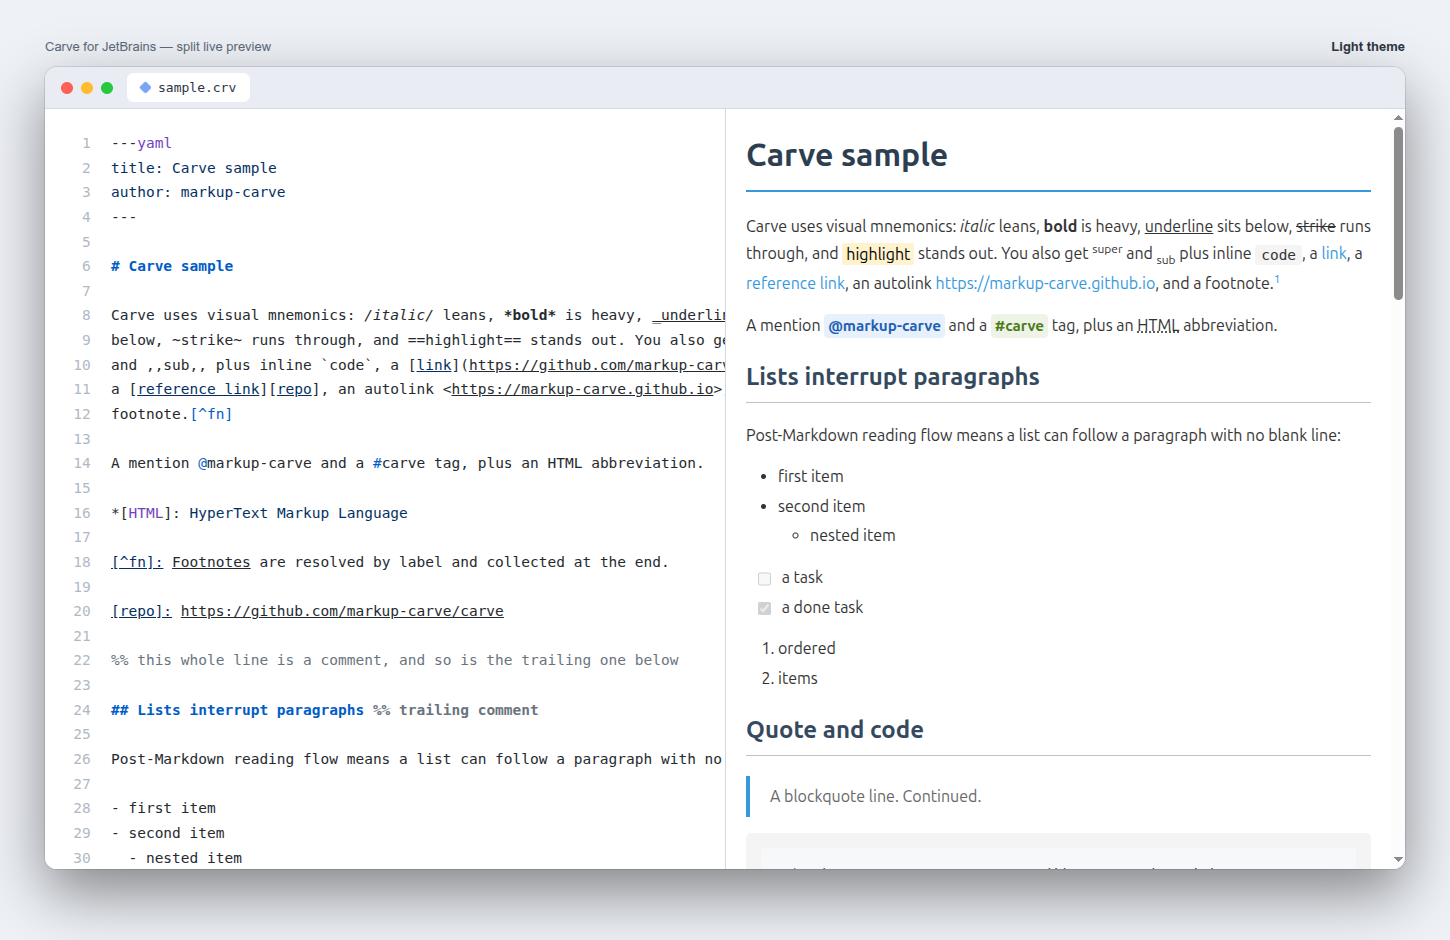
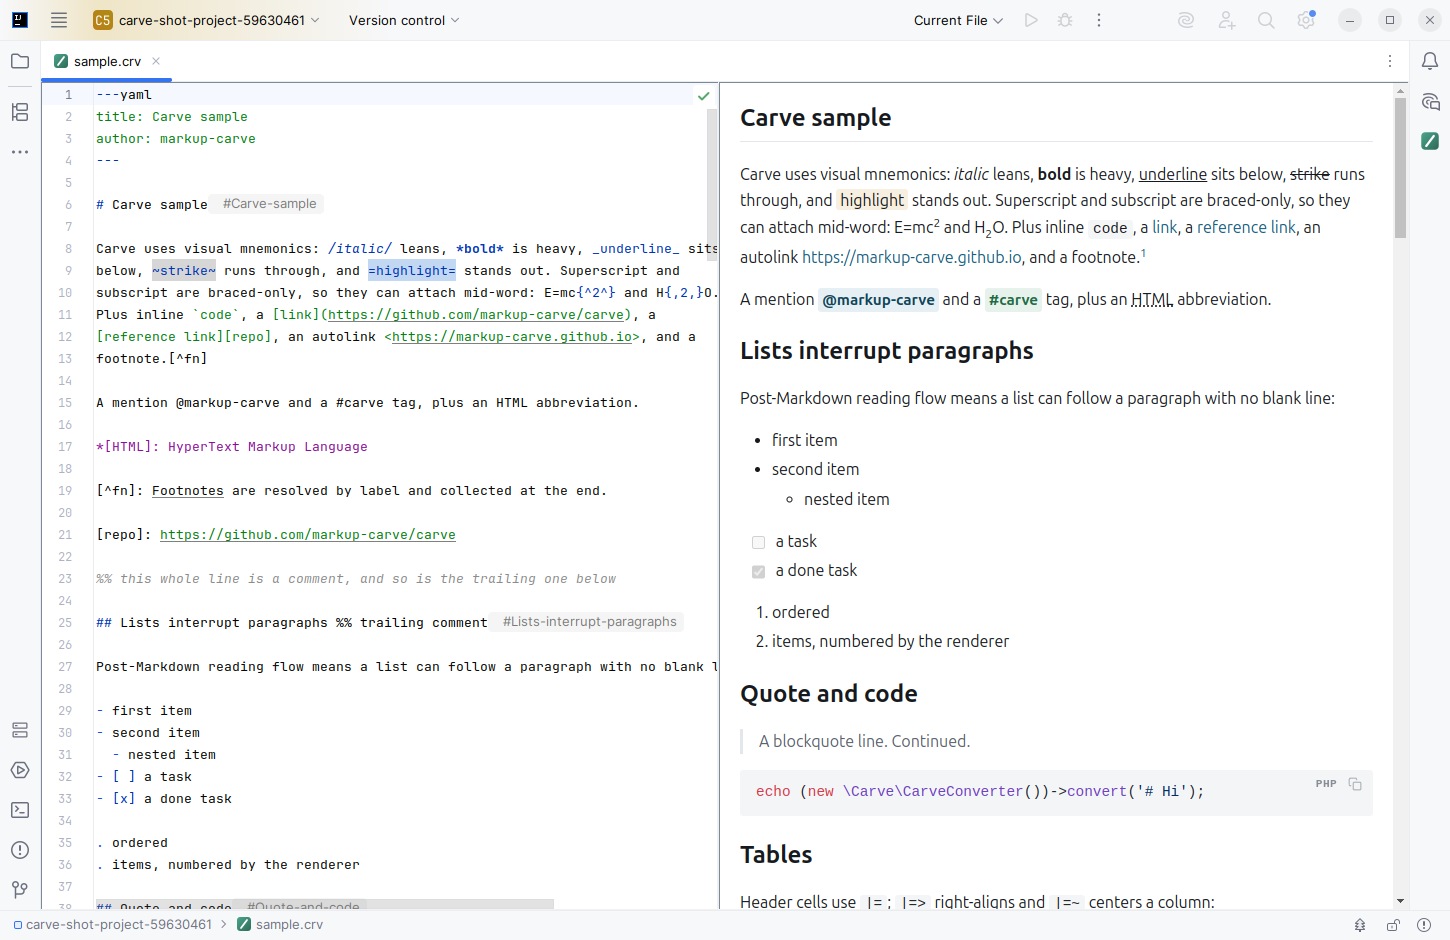
docs: the split screenshots show the 0.1.6 preview (#114)
live-preview.png and theme-dark.png still showed the pre-0.1.6 preview: blue
heading and quote rules, boxed code blocks, no copy button. Both are retaken
from a running sandbox IDE at 1450x940, grabbed 1:1 so nothing is scaled, and
both sit at the same position in examples/sample.crv so the pair differs only
by IDE theme.

The framing now reaches the fenced code block, so the language badge and the
copy button are visible, and the source pane shows the bare-dot ordered list
the sample switched to. The inspection widget reads clean, which it now is.

highlighting.png is unchanged.

The screenshots README drops the stale note and describes how the two split
shots are actually produced, since a preview-only page cannot stand in for
them: it has neither the source pane nor the IDE chrome.

Changed region(s): [[0.0, 0.0, 0.9931, 0.9872], [0.4966, 0.4628, 0.9, 0.8021], [0.4966, 0.833, 0.8069, 0.8638]]

diff --git a/docs/screenshots/README.md b/docs/screenshots/README.md
@@ -9,22 +9,22 @@ JetBrains Marketplace listing.
 | `theme-dark.png` | Same split in dark theme (preview follows IDE theme) |
 | `highlighting.png` | Full `examples/sample.crv` with Carve syntax highlighting |
 
-These are generated from the project's own assets, so they stay faithful to the
-plugin and are reproducible:
+All three show `examples/sample.crv`, so they stay faithful to the plugin.
 
-- **Preview** = `examples/sample.crv` rendered by the bundled carve-js renderer,
-  wrapped in the plugin's exact preview page. That page is built by
-  `CarvePreviewHtml.create(...)` (it moved out of `CarvePreviewPanel.kt` in
-  0.1.6), and `CarvePreviewHtmlTest` already writes a real one to
-  `build/preview-probe/index.html` - swapping the document body into that
-  file is the shortest path to a faithful shot.
-- **Source highlighting** = the plugin's TextMate grammar
+- **The two split shots** are captured from a running sandbox IDE
+  (`./gradlew runIde`, then open `examples/sample.crv`), with the window sized
+  to 1450x940 and grabbed 1:1 so nothing is scaled. Both sit at the same
+  document position; only the IDE theme differs (Settings → Appearance →
+  Theme). The preview follows that theme by itself - `CarvePreviewPanel`
+  listens on `EditorColorsManager.TOPIC` and moves `data-theme` on the preview's
+  root element - so the theme is the only thing to change between the two.
+- **`highlighting.png`** comes from the plugin's TextMate grammar
   (`src/main/resources/textmate/carve.tmLanguage.json`) via Shiki.
 
-An optional `settings.png` (Settings → Carve panel) can be added with a manual
-capture from a running IDE - it is the one shot that needs the live UI.
+`CarvePreviewHtml.create(...)` builds the preview page, and `CarvePreviewHtmlTest`
+writes a real one to `build/preview-probe/index.html`. That is handy for checking
+the preview's own styling, but a preview-only page is not a substitute for the
+split shots: it has neither the source pane nor the IDE chrome.
 
-**These two are stale as of 0.1.6.** The preview moved to the Carve design
-tokens, dropped the blue heading and quote rules, flattened the code blocks and
-gained a copy button, so `live-preview.png` and `theme-dark.png` still show the
-older look. Both are split-editor shots, which need the live UI to retake.
+An optional `settings.png` (Settings → Carve panel) can be added with a manual
+capture from a running IDE.
